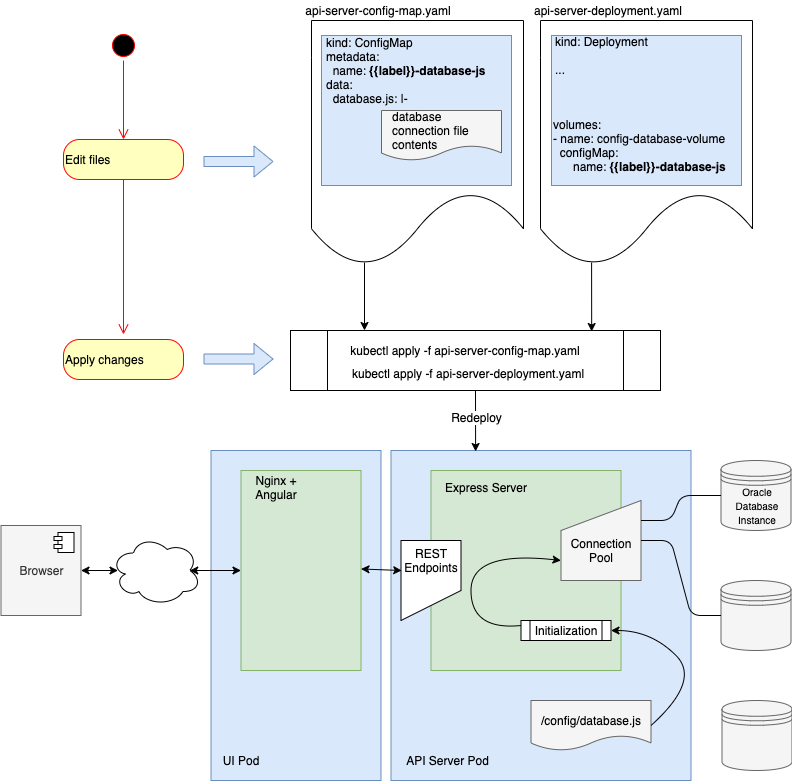
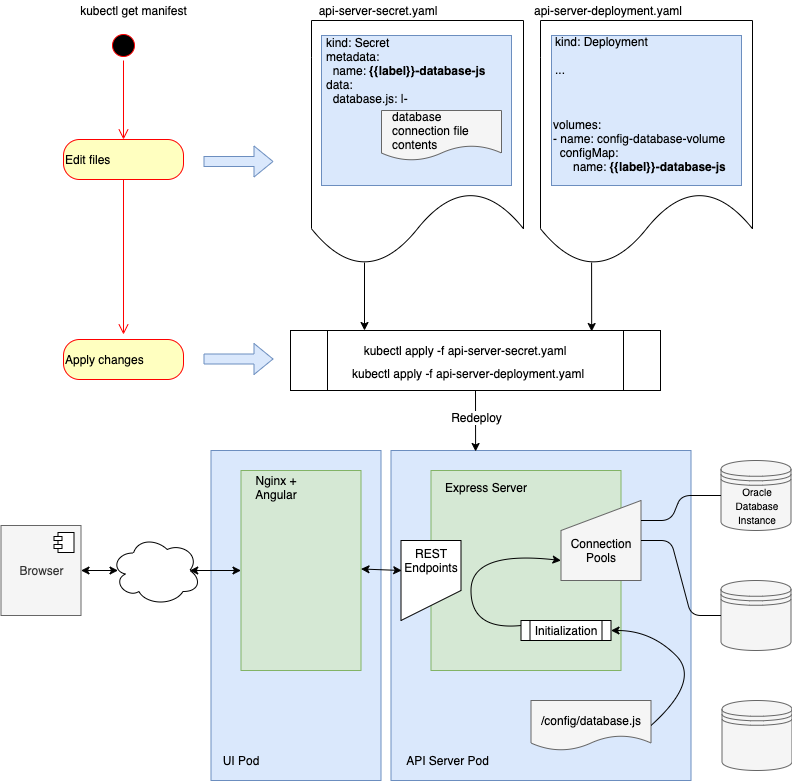
product overview

diff --git a/docs/assets/css/style.scss b/docs/assets/css/style.scss
@@ -2,6 +2,9 @@
 ---
 
 @import "{{ site.theme }}";
+
+img {max-width:100%}
+
 .site-header {
   padding: 10px;
   text-align: center;
@@ -15,11 +18,16 @@
 .sidebar {
   margin: 0;
   padding: 0;
-  width: 200px;
+  width: 268px;
   background-color: #f1f1f1;
   position: fixed;
   height: 100%;
   overflow: auto;
+}
+
+.sidebar h5 {
+  margin-block-start: 1em;
+  margin-block-end: 0em;
 }
 
 /* Sidebar links */
@@ -32,20 +40,20 @@
 
 /* Active/current link */
 .sidebar a.active {
-  background-color: #159957;
+  background-color: #555;
   opacity: 80%;
   color: white;
 }
 
 /* Links on mouse-over */
 .sidebar a:hover:not(.active) {
-  background-color: #555;
+  background-color: #b2b4b3;
   color: white;
 }
 
 /* Page content. The value of the margin-left property should match the value of the sidebar's width property */
 div.content {
-  margin-left: 200px;
+  margin-left: 268px;
   padding: 1px 16px;
   max-width: 1000px;
   height: 1000px;

diff --git a/docs/_layouts/default.html b/docs/_layouts/default.html
@@ -21,9 +21,12 @@
   </head>
   <body>
     <main>
-      <div class="sidebar">     
-        {% for item in site.data.menu.items %}
-          <a href="{{ item.href }}" {% if item.url == page.url %}class="active"{% endif %}  >{{ item.title }}</a>
+      <div class="sidebar">
+        {% for section in site.data.menu.sections %}    
+        <h5>{{ section.name }}</h5> 
+          {% for item in section.items %}
+            <a href="{{ item.href }}" {% if item.url == page.url %}class="active"{% endif %}  >{{ item.title }}</a>
+          {% endfor %}
         {% endfor %}
         </div>
         <div class="content">

diff --git a/docs/index.md b/docs/index.md
@@ -1,15 +1,38 @@
 # Visulate for Oracle
-Visulate for Oracle is an Oracle data dictionary browsing service to help data engineers understand the structure and dependencies in Oracle databases that they plan to migrate to the Cloud.
+Catalog and document your Oracle databases in a single location
 
-## Functionality
-A registration file stores connection details for one or more the databases.  Visulate queries the data dictionary for each connection and allows the user to browse the result. It also allows DDL to be generated for individual objects or groups of objects.
+![Visulate for Oracle](images/visulate-for-oracle.png)
 
-![Alt text](images/object-selection.png?raw=true "Visulate for Oracle database object selection")
 
-A report is generated for each database object by querying the appropriate dictionary views (e.g. DBA_TABLES and other views for table objects or DBA_SOURCE for packages)  
+## Features
 
-![Alt text](images/object-details.png?raw=true "Visulate for Oracle object details")
+### One tool
+Single tool to catalog the company's Oracle databases. Search and browse the data dictionary in each database. 
 
-This report also queries database's dependency model to identify dependencies to and from the object (e.g a view "uses" the tables it is based on and is "used by" a procedure that selects from it).  The dependency info identifies line numbers for references that appear in stored procedures.
+### Web-based
+No client code to download or host via Citrix. Create bookmarks and links to schemas and objects.
 
-![Alt text](images/object-dependencies.png?raw=true "Visulate for Oracle object dependencies")
+### Identify Dependencies
+Query the database's dependency model to identify dependencies to and from the object (e.g a view "uses" the tables it is based on and is "used by" a procedure that selects from it).
+
+### API Support
+APIs are available for all application features.
+
+### Advanced Search and Filter
+Single query to find a objects by name in every schema and database. Filtered search to find objects in a database that match a wildcard pattern (e.g. E-Business Suite product prefix). Advanced search API to identify objects and their dependent objects (e.g. a find the schema definition for a stored procedure and every object it needs to install cleanly)
+
+### DDL Download
+Call dbms_metadata to get DDL for individual objects or groups of objects.
+
+## Common use cases
+
+### Oracle license management 
+Catalog all of your company's Oracle database instances in preparation for a compliance audit. Identify Enterprise Edition feature and option usage. Find Enterprise Edition license instances that could be be downgraded to Standard Edition 2. Review the contents of old databases. What are they really running? Identify targets for consolidation or decommissioning. 
+
+### Custom development
+Document custom code in your COTS application database. Examine dependencies before a schema change. Download and diff the DDL for tables in your development and test environments.  
+
+### On-Premises to Cloud migration
+Document and analyze on-premises environments. Examine custom PL/SQL and other database related program logic (stored procedures, triggers, scripts, and so on) and re-write for the cloud.
+
+Identify candidates for conversion to Postgres. Find dependencies and SQL statements in stored procedures. Download the DDL to refactor a single monolithic schema for use in microservices. 

diff --git a/docs/application-architecture.md b/docs/application-architecture.md
@@ -1,0 +1,33 @@
+## Application Architecture
+
+![Architecture diagram](images/database-connections.png)
+
+Visulate for Oracle creates 2 docker containers to deliver a browser UI and REST endpoints for one or more Oracle databases. The UI Container exposes an Angular UI which makes API calls to REST endpoints exposed by the API Server Container. 
+
+The API Server is an [Express JS](https://expressjs.com/) instance.  It connects to one or more registered databases using [node-oracledb](https://oracle.github.io/node-oracledb/doc/api.html#intro). Database connections are registered by adding an entry to a configuration file that the API Server reads during initialization. It creates a [connection pool](https://oracle.github.io/node-oracledb/doc/api.html#connpooling) for each entry in the config file.
+
+The API Server has SQL for each database object that queries the appropriate dictionary views (e.g. DBA_TABLES and other views for table objects or DBA_SOURCE for packages). It also queries database’s dependency model to identify dependencies to and from the object (e.g a view “uses” the tables it is based on and is “used by” a procedure that selects from it). 
+
+The API Server exposes REST endpoints that allow users initiate queries for a given database + object description. Most API calls include in a query against DBA_OBJECTS.  For example a call to the `/api/{db}/{owner}/{type}/{name}/{status}` endpoint returns the result of running the following query in the specified database:
+```
+select  object_id, object_name, object_type, owner
+from dba_objects
+where owner = :owner
+and object_type like :type
+and object_name like :name ESCAPE \_
+and status like :status
+order by object_name
+```
+Results are returned in JSON format. An [Open API Specification](https://github.com/visulate/visulate-for-oracle/blob/master/api-server/openapi.yaml) for the API Server is available in Github.
+
+An Angular UI makes API calls to the API Server and displays the result.
+
+## Kubernetes Architecture
+
+![K8S Architecture](images/k8s.png)
+
+Web users connect to the application via an Ingress resource. Http path rules in the ingress spec route requests to the UI or API Service as required. Database registration is performed using a Secret.  The Secret manifest delivers the database.js configuration file that the Express server reads during initialization as part of the API Server deployment
+
+The UI and API Server deployment manifests include sidecar containers to support Google Cloud Platform (GCP) integration. The UI and API Server manifests use sidecar containers to make log file contents available to Stackdriver. The API Server manifest creates 2 additional sidecars to support GCP Marketplace.
+
+The application's [helm chart](https://github.com/visulate/visulate-for-oracle/tree/master/google-marketplace/chart/visulate-for-oracle) is available in GitHub (note: GCP Marketplace applications rely on a pre-processing step to populate the values.yaml file in the help chart.)

diff --git a/docs/quickstart.md b/docs/quickstart.md
@@ -1,0 +1,61 @@
+# Visulate for Oracle quickstart
+This page shows you how to create a Visulate for Oracle environment on Google Cloud Platform (GCP) and connect it to an Oracle database.
+
+## Before you begin
+1. Identify or [create a Kubernetes cluster](https://cloud.google.com/kubernetes-engine/docs/quickstart) in GCP
+2. Identify one or more Oracle databases that you want to document
+3. Configure your firewall to allow connections from the GKE cluster to each Oracle database
+
+
+## Provision a Visulate for Oracle application instance
+1. Visit the [Kubernetes Engine page](https://console.cloud.google.com/projectselector/kubernetes?_ga=2.63610924.2027644729.1585254356-1471266844.1580858508) in the Google Cloud Console and create or select a project.
+
+2. Select Applications from the left menu then click the "DEPLOY FROM MARKETPLACE" link
+![Google Cloud Marketplace](images/deploy-from-marketplace.png)
+
+3. Enter Visluate in the search box 
+4. **TO DO** *Screenshots and instructions when product is live on Marketplace*
+
+## Database Setup
+Create a database user for each database you want to register. Follow the instructions in the [Database Setup](database-setup.html) How-to guide.
+
+## Test your firewall rules
+Verify your firewall rules allow connections from the API Server to each database. 
+1. Use `kubectl` to find the API Server pod name. Look for the pod with `-api-` in its name:  
+```
+$ kubectl get pods --namespace=test-nat-ns
+NAME                                                            READY   STATUS    RESTARTS   AGE
+test-nat-deployment1-visulate-for-oracle-api-5598f9b558-x75qj   4/4     Running   0          3d21h
+test-nat-deployment1-visulate-for-oracle-ui-6dc459fd65-cqtp9    2/2     Running   0          3d21h
+```
+2. Open a bash shell in the pod:
+```
+kubectl exec -it test-nat-deployment1-visulate-for-oracle-api-5598f9b558-x75qj --namespace=test-nat-ns -- /bin/bash
+```
+3. Login to the database using SQL*Plus:
+
+```
+Defaulting container name to visulate-for-oracle-api.
+Use 'kubectl describe pod/test-nat-deployment1-visulate-for-oracle-api-5598f9b558-x75qj -n test-nat-ns' to see all of the containers in this pod.
+bash-4.2# sqlplus visulate@db11.visulate.net:1521/vis13    
+
+SQL*Plus: Release 19.0.0.0.0 - Production on Sat Mar 28 15:46:47 2020
+Version 19.5.0.0.0
+
+Copyright (c) 1982, 2019, Oracle.  All rights reserved.
+
+Enter password: 
+
+Connected to:
+Oracle Database 11g Release 11.2.0.4.0 - 64bit Production
+
+SQL> 
+```
+## Database Registration
+Follow the instructions in the [Database Registration](database-registration.html) How-to guide.
+
+## Access the UI
+**TO DO** *Screenshots and instructions when product is available on Marketplace*
+
+## Clean up
+**TO DO** *Screenshots and instructions when product is available on Marketplace*

diff --git a/README.md b/README.md
@@ -17,9 +17,9 @@ This report also queries database's dependency model to identify dependencies to
 ## Implementation
 Visulate for Oracle exposes REST endpoints and a UI to browse the metadata for registered connections. The API server is implemented in Express and uses node-oracledb to connect to the database(s).  Connections are registered in a configuration file (database.js) located in the config directory. A separate file (http-server.js) in the same directory controls the behavior of the Express server.
 
-The start point for the Express server is app.js.  Most of the source code is in the services directory. Registered databases  must connect to a user with the SELECT ANY DICTIONARY privilege. The setup directory includes a script to create a user with the minimum required privileges. The SYSTEM account would also work (in a non-production environment) or you can grant SELECT ANY DICTIONARY to an existing user.
+The start point for the Express server is app.js.  Most of the source code is in the api-server/services directory. Registered databases  must connect to a user with the SELECT ANY DICTIONARY privilege. The setup directory includes a script to create a user with the minimum required privileges. The SYSTEM account would also work (in a non-production environment) or you can grant SELECT ANY DICTIONARY to an existing user.
 
-An Angular UI makes API calls to the Express server and displays the result. The source code for this is in the client directory. It reads the apiBase property in the `src/environments/environment.ts` (or environment.prod.ts) file to identify the base url for API calls. 
+An Angular UI makes API calls to the Express server and displays the result. The source code for this is in the ui directory. It reads the apiBase property in the `src/environments/environment.ts` (or environment.prod.ts) file to identify the base url for API calls. 
 
 The API server supports cross origin (CORS) requests from locations identified in the `config/http-server.js` file.  The default configuration accepts requests from localhost:4200.  The configuration file can be edited to support other locations.
 

diff --git a/docs/database-registration.md b/docs/database-registration.md
@@ -1,5 +1,44 @@
 # Database Registration
-The initial deployment from GCP Marketplace provisions an API Server with no registered databases. The user must apply a new Secret and redeploy the API Server to register the databases they want to expose 
+## Overview
+The API Server maintains a connection pool for each registered database.
+
+![Database Connections](images/database-connections.png)
+
+The parameters for each pool are read from a file during initialization. A sample file appears below. 
+
+```
+const endpoints = [
+ { namespace: 'oracle18XE',
+    description: '18c XE PDB instance running in a docker container',
+    connect: { poolAlias: 'oracle18XE',
+              user: 'visulate',
+              password: 'HtuUDK%?4JY#]L3:',
+              connectString: 'db20.visulate.net:41521/XEPDB1',
+              poolMin: 4,
+              poolMax: 4,
+              poolIncrement: 0
+            }
+  },
+  { namespace: 'oracle11XE',
+    description: '11.2 XE database',
+    connect: { poolAlias: 'oracle11XE',
+              user: 'visulate',
+              password: '7>rC4P?!~U42tS^^',
+              connectString: 'db20.visulate.net:49161/XE',
+              poolMin: 4,
+              poolMax: 4,
+              poolIncrement: 0
+            }
+  }
+];
+module.exports.endpoints = endpoints;
+```
+
+Parameter values are described in the [Oracle node-oracledb](https://oracle.github.io/node-oracledb/doc/api.html#connpooling) documentation. The Visulate for Oracle sets the [UV_THREADPOOL_SIZE environment variable](http://docs.libuv.org/en/v1.x/threadpool.html) to the sum of the poolMax values + 4 before starting the Express server.
+
+## Register your databases
+
+The initial deployment from GCP Marketplace provisions an API Server with no registered databases. The user must create and apply a database registration file. This is done using a Kubernetes Secret.  
 
 ![Update Database Connections](images/update-database-connections.png)
 

diff --git a/docs/database-setup.md b/docs/database-setup.md
@@ -1,0 +1,29 @@
+# Database Setup
+Visulate for Oracle needs to read the data dictionary in each registered database. Create a dedicated user with the minimum required privileges.
+
+## Create a user
+Login to SQL*PLus as SYSTEM and create a database user called "VISULATE" and grant CREATE SESSION, SELECT_CATALOG_ROLE and SELECT ANY DICTIONARY privileges to it:
+```
+create user visulate identified by &password;
+alter user visulate account unlock;
+grant create session to visulate;
+grant select any dictionary to visulate;
+grant select_catalog_role to visulate;
+```
+
+## What do these roles and privileges do?
+The CREATE SESSION privilege is needed to allow database connections. 
+
+SELECT ANY DICTIONARY privilege grants Read access on Data Dictionary tables owned by SYS (with the exception of the following objects: DEFAULT_PWD$, ENC$, LINK$, USER$, USER_HISTORY$, and XS$VERIFIERS).  The SELECT_CATALOG_ROLE role grants Read access to Data Dictionary (DBA_%) and Performance (V$%) views.
+
+Some of the queries in Visulate for Oracle access data dictionary tables instead of the DBA_ views for performance reasons hence the need for SELECT ANY DICTIONARY.  The DDL download feature calls DBMS_METADATA which requires SELECT_CATALOG_ROLE. 
+
+
+## Drop the user
+Visulate for Oracle needs a database user account in each registered database. You should drop the user if you decide to de-register the database. Login to SQL*PLus as SYSTEM and run the following:
+```
+drop user visulate cascade;
+```
+
+## SQL Scripts
+SQL Scripts to create and drop users are available in [GitHub](https://github.com/visulate/visulate-for-oracle/tree/master/api-server/database-setup)
